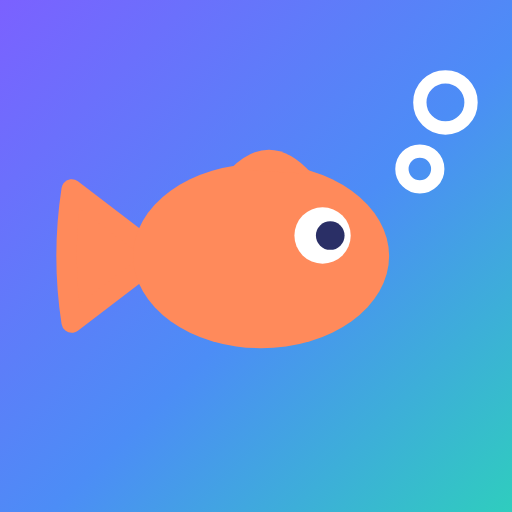
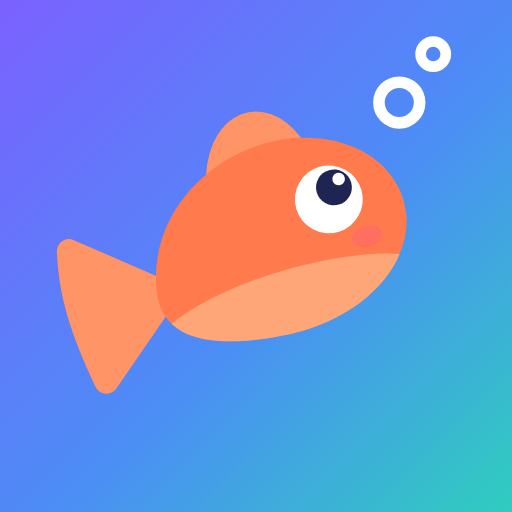
Add files via upload

Changed region(s): [[0.0938, 0.0625, 0.9375, 0.7812]]

diff --git a/index.html b/index.html
@@ -27,7 +27,7 @@
   --dock:rgba(255,255,255,.8); --dock-stroke:rgba(18,24,38,.06); --dock-ink:#121826; --side:#EEF2F8;
   --cam:var(--brand-grad); --cam-ink:#fff; --cam-glow:0 0 0 6px rgba(76,141,246,.14), 0 12px 30px rgba(91,97,255,.38);
   --btn-bg:var(--brand-grad); --btn-ink:#fff; --toast-bg:#121826; --toast-ink:#fff;
-  --calm:#2FCDBE; --calm-2:#7B61FF; --soon:#4C8DF6; --soon-2:#7B61FF; --now:#7B61FF; --now-2:#4C8DF6; --empty:#7B61FF; --empty-2:#2FCDBE;
+  --calm:#5B8DF6; --calm-2:#8C7BFF; --soon:#4C8DF6; --soon-2:#7B61FF; --now:#7B61FF; --now-2:#4C8DF6; --empty:#7B61FF; --empty-2:#5BA4F7;
   --now-ink:#5B43E0; --soon-ink:#2F6FE0; --thread:#4C8DF6;
   --aurora:.38; --ring-track:rgba(18,24,38,.06); --ring-w:7; --num-w:850; --num-fill:linear-gradient(165deg,#121826 32%,var(--mood2) 70%,var(--mood1)); --glow:none;
   --font: ui-rounded, "SF Pro Rounded", system-ui, -apple-system, "Segoe UI", Roboto, sans-serif;
@@ -75,7 +75,8 @@ button{cursor:pointer;border:0;background:none;padding:0}
 .ring .center{position:absolute;inset:0;display:flex;flex-direction:column;align-items:center;justify-content:center}
 .ring .num{font-size:clamp(70px,24vw,112px);line-height:.9;font-weight:var(--num-w);letter-spacing:-.06em;background:var(--num-fill);-webkit-background-clip:text;background-clip:text;color:transparent;font-variant-numeric:tabular-nums}
 .ring .unit{font-size:14.5px;font-weight:700;color:var(--ink-2);margin-top:10px}
-.ring .knot{width:46%;color:var(--mood1)}
+.ring .knot{width:64%;filter:drop-shadow(0 10px 18px rgba(242,87,58,.22));animation:swim 5s ease-in-out infinite}
+@keyframes swim{50%{transform:translate(4px,-5px) rotate(-3deg)}}
 .hero h1{font-size:clamp(25px,7vw,32px);line-height:1.08;font-weight:800;letter-spacing:-.025em;margin:0 0 10px;text-wrap:balance}
 .hero h1 .h2l{display:block;white-space:nowrap}
 .hero h1 .brandw{background:linear-gradient(120deg,#7B61FF,#4C8DF6 55%,#2FCDBE);-webkit-background-clip:text;background-clip:text;color:transparent}
@@ -162,6 +163,23 @@ button{cursor:pointer;border:0;background:none;padding:0}
 .legend span{display:inline-flex;align-items:center;gap:6px}
 .top-actions{display:flex;align-items:center}
 
+/* ---------- calendario: pagina affiancata a sinistra, stesso sfondo ---------- */
+:root{--hx:0px}
+.hero,.list-sec,.peek,.bar{translate:var(--hx) 0}
+.calp{position:fixed;inset:0;z-index:11;background:transparent;overflow-y:auto;overscroll-behavior:contain;translate:calc(var(--hx) - 100vw) 0;padding:calc(env(safe-area-inset-top) + 8px) 16px calc(170px + env(safe-area-inset-bottom));pointer-events:none}
+.calp.open{pointer-events:auto}
+body.slide .hero,body.slide .list-sec,body.slide .peek,body.slide .bar,body.slide .calp{transition:translate .5s cubic-bezier(.22,.9,.22,1)}
+html,body{overflow-x:clip}
+html{overflow-x:hidden}
+.calp-head{display:flex;align-items:center;justify-content:space-between;max-width:620px;margin:0 auto 10px;min-height:44px}
+.calp-head h2{margin:0;font-size:27px;font-weight:800;letter-spacing:-.025em}
+.calp-head .icon-btn{margin-right:-10px;color:var(--ink)}
+/* calendario leggero: vetro trasparente al posto del bianco pieno */
+.calp .cal{background:rgba(255,255,255,.38);-webkit-backdrop-filter:blur(18px) saturate(1.4);backdrop-filter:blur(18px) saturate(1.4);border:1px solid rgba(255,255,255,.6);box-shadow:0 8px 30px rgba(43,72,140,.07)}
+.calp .row,.calp .chip:not([aria-pressed="true"]){background:rgba(255,255,255,.45);border-color:rgba(255,255,255,.65);box-shadow:none}
+.calp .chip{box-shadow:none}
+.calp .day:active{background:rgba(255,255,255,.5)}
+.calp .add-day{border-color:rgba(76,141,246,.35);background:rgba(255,255,255,.18)}
 .dock{position:fixed;left:0;right:0;bottom:calc(14px + env(safe-area-inset-bottom));z-index:12;display:flex;align-items:flex-end;justify-content:center;gap:34px;pointer-events:none}
 .dock .rb{pointer-events:auto;display:flex;flex-direction:column;align-items:center;gap:7px;font-size:12.5px;font-weight:750;color:var(--ink-2)}
 .dock .c{display:grid;place-items:center;border-radius:50%;transition:transform .15s}
@@ -274,7 +292,8 @@ textarea.input{height:auto;min-height:100px;padding:14px 16px;line-height:1.4;re
 #toastActions{flex:1 0 100%;display:flex;gap:8px;justify-content:flex-end}
 #toastActions:empty{display:none}
 .toast button{color:inherit;font-weight:800;padding:9px 14px;border-radius:14px;font-size:15px;background:color-mix(in srgb, currentColor 10%, transparent)}
-.toast svg{flex:0 0 46px;height:27px;width:46px;color:#5FE0D3}
+.toast .tie{flex:0 0 34px;height:34px;border-radius:9px;overflow:hidden}
+.toast .tie svg{width:34px;height:34px;display:block}
 .tie use{stroke-dasharray:240;stroke-dashoffset:240}
 .toast.show .tie use{animation:tie .9s .1s cubic-bezier(.6,0,.2,1) forwards}
 @keyframes tie{to{stroke-dashoffset:0}}
@@ -322,12 +341,19 @@ textarea.input{height:auto;min-height:100px;padding:14px 16px;line-height:1.4;re
 </svg>
 
 <header class="bar">
-  <div class="brand"><svg viewBox="0 0 100 100" aria-hidden="true"><defs><linearGradient id="lg" x1="0" y1="0" x2="1" y2="1"><stop offset="0" stop-color="#7B61FF"/><stop offset=".55" stop-color="#4C8DF6"/><stop offset="1" stop-color="#2FCDBE"/></linearGradient></defs><rect width="100" height="100" rx="24" fill="url(#lg)"/><g transform="translate(50 50) translate(-49 -51)"><path d="M30 51 L13 38 Q11 51 13 64 Z" fill="#FF8A5B" stroke="#FF8A5B" stroke-width="4" stroke-linejoin="round"/>
-<ellipse cx="50" cy="51" rx="25" ry="18" fill="#FF8A5B"/>
-<path d="M44 34 Q52 26 60 35" fill="#FF8A5B"/>
-<circle cx="62" cy="47" r="5.5" fill="#fff"/><circle cx="63.5" cy="47" r="2.8" fill="#2A2F66"/>
-<circle cx="81" cy="34" r="3.5" fill="none" stroke="#fff" stroke-width="2.6"/>
-<circle cx="86" cy="21" r="5" fill="none" stroke="#fff" stroke-width="2.6"/></g></svg>MeMo</div>
+  <div class="brand"><svg xmlns="http://www.w3.org/2000/svg" aria-hidden="true" viewBox="0 0 100 100"><defs><linearGradient id="lbg" x1="0" y1="0" x2="1" y2="1"><stop offset="0" stop-color="#7B61FF"/><stop offset=".55" stop-color="#4C8DF6"/><stop offset="1" stop-color="#2FCDBE"/></linearGradient><clipPath id="lsq"><rect width="100" height="100" rx="22.5"/></clipPath></defs><g clip-path="url(#lsq)"><rect width="100" height="100" fill="url(#lbg)"/><g transform="translate(50 50) scale(0.9463960027206474) translate(-50.43 -56.67)"><defs><clipPath id="lbody"><path d="M28 58 C30 42 46 32 62 34 C76 36 84 46 82 56 C80 66 68 74 52 73 C38 72 27 68 28 58 Z"/></clipPath></defs>
+<g class="fishbody" transform="rotate(-16 54 54)">
+  <path d="M30 58 L13 44 C11 52 11 60 13 72 Z" fill="#FF9466" stroke="#FF9466" stroke-width="5" stroke-linejoin="round"/>
+  <path d="M46 37 C50 26 60 25 64 35 Z" fill="#FF9466" stroke="#FF9466" stroke-width="3" stroke-linejoin="round"/>
+  <path d="M28 58 C30 42 46 32 62 34 C76 36 84 46 82 56 C80 66 68 74 52 73 C38 72 27 68 28 58 Z" fill="#FF7A4D"/>
+  <g clip-path="url(#lbody)"><ellipse cx="55" cy="72" rx="34" ry="12" fill="#FFA678"/></g>
+  <circle cx="67.5" cy="48.5" r="7" fill="#fff"/>
+  <circle cx="69.2" cy="46.4" r="3.7" fill="#1F2552"/>
+  <circle cx="70.6" cy="45" r="1.3" fill="#fff"/>
+  <ellipse cx="73" cy="58" rx="3.2" ry="2.1" fill="#FF5E7E" opacity=".4"/>
+</g>
+<circle cx="80" cy="25" r="4.2" fill="none" stroke="#fff" stroke-width="2.4"/>
+<circle cx="87" cy="15" r="2.6" fill="none" stroke="#fff" stroke-width="2.2"/></g></g></svg>MeMo</div>
   <div class="mini" aria-hidden="true"><span class="dot"></span><span id="miniTxt"></span></div>
   <div class="top-actions"><button class="icon-btn" id="btnCal" aria-label="Calendario">
     <svg width="23" height="23" viewBox="0 0 24 24" fill="none" stroke="currentColor" stroke-width="2" stroke-linecap="round" stroke-linejoin="round" aria-hidden="true"><rect x="3.5" y="5" width="17" height="15.5" rx="3.5"/><path d="M3.5 10h17M8 3v4M16 3v4"/><circle cx="8.5" cy="14.5" r="1.1" fill="currentColor"/><circle cx="12" cy="14.5" r="1.1" fill="currentColor"/></svg>
@@ -346,7 +372,19 @@ textarea.input{height:auto;min-height:100px;padding:14px 16px;line-height:1.4;re
         <circle class="arc" id="ringArc" cx="100" cy="100" r="92" pathLength="100" stroke-dasharray="100" stroke-dashoffset="100" transform="rotate(-90 100 100)"/>
       </svg>
       <div class="center"><div class="num" id="heroNum"></div><div class="unit" id="heroUnit"></div>
-        <svg class="knot" id="heroKnot" viewBox="0 0 68 40" aria-hidden="true" hidden><use href="#knotPath" fill="none" stroke="currentColor" stroke-width="4" stroke-linecap="round" stroke-linejoin="round"/></svg></div>
+        <svg class="knot fish" id="heroKnot" hidden viewBox="0 0 100 100" aria-hidden="true"><g transform="translate(50 50) scale(0.9937158028566798) translate(-50.43 -56.67)"><defs><clipPath id="hbody"><path d="M28 58 C30 42 46 32 62 34 C76 36 84 46 82 56 C80 66 68 74 52 73 C38 72 27 68 28 58 Z"/></clipPath></defs>
+<g class="fishbody" transform="rotate(-16 54 54)">
+  <path d="M30 58 L13 44 C11 52 11 60 13 72 Z" fill="#FF9466" stroke="#FF9466" stroke-width="5" stroke-linejoin="round"/>
+  <path d="M46 37 C50 26 60 25 64 35 Z" fill="#FF9466" stroke="#FF9466" stroke-width="3" stroke-linejoin="round"/>
+  <path d="M28 58 C30 42 46 32 62 34 C76 36 84 46 82 56 C80 66 68 74 52 73 C38 72 27 68 28 58 Z" fill="#FF7A4D"/>
+  <g clip-path="url(#hbody)"><ellipse cx="55" cy="72" rx="34" ry="12" fill="#FFA678"/></g>
+  <circle cx="67.5" cy="48.5" r="7" fill="#fff"/>
+  <circle cx="69.2" cy="46.4" r="3.7" fill="#1F2552"/>
+  <circle cx="70.6" cy="45" r="1.3" fill="#fff"/>
+  <ellipse cx="73" cy="58" rx="3.2" ry="2.1" fill="#FF5E7E" opacity=".4"/>
+</g>
+<circle cx="80" cy="25" r="4.2" fill="none" stroke="#8DA6F5" stroke-width="2.4"/>
+<circle cx="87" cy="15" r="2.6" fill="none" stroke="#8DA6F5" stroke-width="2.2"/></g></svg></div>
     </div>
     <h1 id="heroTitle"></h1>
     <p id="heroSub"></p>
@@ -366,6 +404,10 @@ textarea.input{height:auto;min-height:100px;padding:14px 16px;line-height:1.4;re
   </div>
 </section>
 
+<section class="calp" id="calPanel" aria-hidden="true" aria-label="Calendario">
+  <div class="calp-head"><h2>Calendario</h2><button class="icon-btn" id="calBack" aria-label="Torna alla home"><svg width="22" height="22" viewBox="0 0 24 24" fill="none" stroke="currentColor" stroke-width="2.4" stroke-linecap="round" stroke-linejoin="round" aria-hidden="true"><path d="M9 5l7 7-7 7"/></svg></button></div>
+  <div class="wrap" id="viewCal"></div>
+</section>
 <nav class="dock" aria-label="Aggiungi un MeMo">
   <button class="rb photo" id="btnPhoto"><span class="c"><svg width="26" height="26" viewBox="0 0 24 24" fill="none" stroke="currentColor" stroke-width="2.1" stroke-linejoin="round" aria-hidden="true"><path d="M4 8h3l2-3h6l2 3h3v11H4z"/><circle cx="12" cy="13" r="3.6"/></svg></span>Foto</button>
   <button class="rb voice" id="btnVoice"><span class="c"><svg width="36" height="36" viewBox="0 0 24 24" fill="none" stroke="currentColor" stroke-width="2.2" stroke-linecap="round" aria-hidden="true"><rect x="9" y="3" width="6" height="11" rx="3"/><path d="M5.5 11.5a6.5 6.5 0 0 0 13 0M12 18v3"/></svg></span>Dimmi</button>
@@ -383,7 +425,19 @@ textarea.input{height:auto;min-height:100px;padding:14px 16px;line-height:1.4;re
 
 <button class="nb" id="nb" aria-live="assertive"><span class="ni" id="nbIcon"></span><span class="nt"><span class="nh"><b>MeMo</b><span>ora</span></span><span class="nti" id="nbT"></span><span class="nbo" id="nbB"></span></span></button>
 <div class="toast" id="toast" role="status" aria-live="polite">
-  <svg class="tie" viewBox="0 0 68 40" aria-hidden="true"><use href="#knotPath" fill="none" stroke="currentColor" stroke-width="4.5" stroke-linecap="round" stroke-linejoin="round"/></svg>
+  <span class="tie"><svg xmlns="http://www.w3.org/2000/svg" aria-hidden="true" viewBox="0 0 100 100"><defs><linearGradient id="lbg" x1="0" y1="0" x2="1" y2="1"><stop offset="0" stop-color="#7B61FF"/><stop offset=".55" stop-color="#4C8DF6"/><stop offset="1" stop-color="#2FCDBE"/></linearGradient><clipPath id="lsq"><rect width="100" height="100" rx="22.5"/></clipPath></defs><g clip-path="url(#lsq)"><rect width="100" height="100" fill="url(#lbg)"/><g transform="translate(50 50) scale(0.9463960027206474) translate(-50.43 -56.67)"><defs><clipPath id="lbody"><path d="M28 58 C30 42 46 32 62 34 C76 36 84 46 82 56 C80 66 68 74 52 73 C38 72 27 68 28 58 Z"/></clipPath></defs>
+<g class="fishbody" transform="rotate(-16 54 54)">
+  <path d="M30 58 L13 44 C11 52 11 60 13 72 Z" fill="#FF9466" stroke="#FF9466" stroke-width="5" stroke-linejoin="round"/>
+  <path d="M46 37 C50 26 60 25 64 35 Z" fill="#FF9466" stroke="#FF9466" stroke-width="3" stroke-linejoin="round"/>
+  <path d="M28 58 C30 42 46 32 62 34 C76 36 84 46 82 56 C80 66 68 74 52 73 C38 72 27 68 28 58 Z" fill="#FF7A4D"/>
+  <g clip-path="url(#lbody)"><ellipse cx="55" cy="72" rx="34" ry="12" fill="#FFA678"/></g>
+  <circle cx="67.5" cy="48.5" r="7" fill="#fff"/>
+  <circle cx="69.2" cy="46.4" r="3.7" fill="#1F2552"/>
+  <circle cx="70.6" cy="45" r="1.3" fill="#fff"/>
+  <ellipse cx="73" cy="58" rx="3.2" ry="2.1" fill="#FF5E7E" opacity=".4"/>
+</g>
+<circle cx="80" cy="25" r="4.2" fill="none" stroke="#fff" stroke-width="2.4"/>
+<circle cx="87" cy="15" r="2.6" fill="none" stroke="#fff" stroke-width="2.2"/></g></g></svg></span>
   <div class="msg" id="toastMsg"></div>
   <div id="toastActions"></div>
 </div>
@@ -394,7 +448,7 @@ textarea.input{height:auto;min-height:100px;padding:14px 16px;line-height:1.4;re
 'use strict';
 const P = window.MeMoParser;
 const $ = s => document.querySelector(s);
-const VERSION = '1.9';
+const VERSION = '1.15';
 const isIOS = /iPhone|iPad|iPod/.test(navigator.userAgent);
 const isStandalone = () => window.navigator.standalone === true || matchMedia('(display-mode: standalone)').matches;
 
@@ -485,7 +539,7 @@ function countParts(it, st) {
 }
 function rowSub(it, st) {
   if (st.key === 'now') {
-    if (it.time) return st.minutesLeft >= 0 ? `${cap(whenText(it))}, ${inWords(st.minutesLeft)}` : `Era ${whenText(it)}`;
+    if (it.time) return st.minutesLeft >= 0 ? cap(whenText(it)) : `Era ${whenText(it)}`;
     const exp = ['passaporto', 'cie', 'patente', 'tessera', 'revisione', 'bollo', 'assicurazione', 'abbonamento', 'bolletta', 'garanzia'].includes(it.type);
     if (st.left < 0) return exp ? `Scaduto il ${fmtDay(it.due)}` : `Era il ${fmtDay(it.due)}`;
     if (st.left <= 1) return exp ? `Scade ${dayWord(it.due)}` : cap(dayWord(it.due));
@@ -503,6 +557,8 @@ function countUp(el, to) {
   requestAnimationFrame(step);
 }
 let rowObserver = null;
+const CALM_LINES = ['Tutto sotto controllo.', 'Ho tutto sotto pinna.', 'Me lo sono segnato io.', 'Tranquillo, ce l\'ho io.', 'Lascia fare a me.', 'Tu vivi, io ricordo.', 'Nessun pensiero: ci sono io.'];
+const CALM_LINE = CALM_LINES[Math.floor(Math.random() * CALM_LINES.length)];
 function render() {
   const nowD = new Date();
   const active = items.map(i => ({ i, s: P.statusOf(i, nowD) })).sort((a, b) => P.dueAt(a.i) - P.dueAt(b.i));
@@ -525,26 +581,29 @@ function render() {
     showNum(true); fill = 100; countUp(num, n);
     unit.textContent = allToday ? 'MeMo per oggi' : (n === 1 ? 'MeMo da ricordare' : 'MeMo da ricordare');
     h.textContent = n === 1 ? first.i.title : `${first.i.title} e ${n === 2 ? "un'altra cosa" : (n - 1) + ' altre cose'}`;
-    p.textContent = n === 1 ? `${rowSub(first.i, first.s)}. Al resto penso io.` : 'Li trovi qui sotto. Al resto penso io.';
+    p.textContent = n === 1 ? `${rowSub(first.i, first.s)}. Ci penso io.` : 'Li trovi qui sotto. Ci penso io.';
     mini.textContent = `${n} MeMo ${allToday ? 'per oggi' : 'da ricordare'}`;
   } else {
-    const next = active.slice().sort((a, b) => a.s.remind - b.s.remind)[0];
-    const mins = Math.max(0, Math.round((next.s.remind - nowD) / 60000));
-    showNum(true);
-    if (mins < 24 * 60) {
-      const hrs = Math.floor(mins / 60);
-      if (hrs >= 1) { countUp(num, hrs); unit.textContent = hrs === 1 ? 'ora tranquilla' : 'ore tranquille'; }
-      else { countUp(num, mins); unit.textContent = 'minuti tranquilli'; }
-      fill = Math.max(6, mins / (24 * 60) * 100);
-      mini.textContent = `Tranquillo fino alle ${hm(next.s.remind)}`;
+    // quanti MeMo ci sono nel prossimo giorno che ne ha: oggi, domani, oppure tra qualche giorno
+    const today = P.todayISO(), next = active[0], day = next.i.due;
+    const sameDay = active.filter(x => x.i.due === day), n = sameDay.length;
+    const days = P.diffDays(today, day);
+    fill = 100;
+    if (days > 183) {
+      showNum(false);
+      h.textContent = 'Troppo in là anche solo per ricordartelo.';
+      p.textContent = `Il prossimo MeMo è a ${fmtMonth(day)}. Ci penso io.`;
+      mini.textContent = 'Niente in vista';
     } else {
-      const d = P.diffDays(P.todayISO(), P.toISO(next.s.remind));
-      countUp(num, d); unit.textContent = d === 1 ? 'giorno tranquillo' : 'giorni tranquilli';
-      fill = Math.max(8, Math.min(100, d / 90 * 100));
-      mini.textContent = d === 1 ? 'Tranquillo fino a domani' : `Tranquillo per ${d} giorni`;
+      showNum(true); countUp(num, n);
+      const when = days <= 0 ? 'per oggi' : days === 1 ? 'per domani' : days < 45 ? `tra ${days} giorni` : `tra ${Math.round(days / 30.44)} mesi`;
+      unit.textContent = `MeMo ${when}`;
+      h.textContent = CALM_LINE;
+      const t = sameDay.map(x => `«${x.i.title}»`);
+      const names = n <= 3 ? (n === 1 ? t[0] : t.slice(0, -1).join(', ') + ' e ' + t[n - 1]) : `${t[0]}, ${t[1]} e altri ${n - 2}`;
+      p.textContent = `${names}. ${n === 1 ? 'Te lo ricordo' : 'Te li ricordo'} io, al momento giusto.`;
+      mini.textContent = `${n} MeMo ${when}`;
     }
-    h.textContent = 'Puoi dimenticarti tutto.';
-    p.textContent = `Il prossimo avviso è per «${next.i.title}», ${remindText(next.s.remind, !!next.i.time)}.`;
   }
   requestAnimationFrame(() => arc.style.strokeDashoffset = String(100 - fill));
 
@@ -575,7 +634,7 @@ function render() {
   } else list.querySelectorAll('.row-wrap').forEach(el => el.classList.add('in'));
   $('#swipeTip').hidden = !active.length || store.get('swiped') === '1';
   try { if ('setAppBadge' in navigator) groups.now.length ? navigator.setAppBadge(groups.now.length) : navigator.clearAppBadge(); } catch (e) {}
-  if ($('#viewCal')) renderCal();
+  if (calOpen) renderCal();
   onScroll();
 }
 
@@ -624,10 +683,56 @@ $('#peek').addEventListener('click', () => window.memoGlideToList());
 let calMonth = (() => { const d = new Date(); return new Date(d.getFullYear(), d.getMonth(), 1); })();
 let calSel = P.todayISO();
 const monthKey = (y, m) => `${y}-${pad(m + 1)}`;
+let calOpen = false;
 function openCalendar() {
   const n = new Date(); calMonth = new Date(n.getFullYear(), n.getMonth(), 1); calSel = P.todayISO();
-  openSheet('<h2>Calendario</h2><div id="viewCal"></div>', () => renderCal());
+  renderCal(); setCal(true);
 }
+// la home e il calendario sono due pagine affiancate: --hx sposta entrambe insieme
+const setHX = px => document.documentElement.style.setProperty('--hx', px + 'px');
+let slideT;
+function setCal(open) {
+  calOpen = open; const el = $('#calPanel');
+  document.body.classList.add('slide'); clearTimeout(slideT); slideT = setTimeout(() => document.body.classList.remove('slide'), 520);
+  setHX(open ? window.innerWidth : 0);
+  el.classList.toggle('open', open); el.setAttribute('aria-hidden', String(!open));
+  document.body.classList.toggle('cal-on', open);
+  if (open) { el.scrollTop = 0; haptic(); }
+}
+window.addEventListener('resize', () => { if (calOpen) setHX(window.innerWidth); });
+// swipe verso destra dalla home: la home scivola a destra e il calendario entra da sinistra; swipe verso sinistra per tornare
+(() => {
+  let x0 = null, y0 = 0, mode = null, dx = 0, from = null, lastX = 0, lastT = 0, vx = 0;
+  const W = () => window.innerWidth;
+  const start = (e, origin) => { const t = e.touches[0]; x0 = lastX = t.clientX; y0 = t.clientY; lastT = performance.now(); mode = null; dx = 0; vx = 0; from = origin; };
+  const move = e => {
+    if (x0 == null) return; const t = e.touches[0]; const mx = t.clientX - x0, my = t.clientY - y0;
+    if (!mode && (Math.abs(mx) > 8 || Math.abs(my) > 8)) {
+      mode = Math.abs(mx) > Math.abs(my) * 1.2 && ((from === 'home' && mx > 0) || (from === 'cal' && mx < 0)) ? 'x' : 'y';
+      if (mode === 'x' && from === 'home') { const n = new Date(); calMonth = new Date(n.getFullYear(), n.getMonth(), 1); calSel = P.todayISO(); renderCal(); $('#calPanel').scrollTop = 0; }
+    }
+    if (mode !== 'x') return;
+    const now = performance.now(); vx = (t.clientX - lastX) / Math.max(1, now - lastT); lastX = t.clientX; lastT = now;
+    dx = mx; document.body.classList.remove('slide');
+    setHX(Math.max(0, Math.min(W(), from === 'home' ? dx : W() + dx)));
+  };
+  const end = () => {
+    if (x0 == null) return; x0 = null;
+    if (mode !== 'x') return;
+    // decide in base a quanto e quanto in fretta hai spostato il dito
+    if (from === 'home') setCal(dx > W() * 0.3 || vx > 0.45); else setCal(!(dx < -W() * 0.3 || vx < -0.45));
+  };
+  document.addEventListener('touchstart', e => {
+    if (calOpen || !$('#sheetWrap').hidden || document.querySelector('.intro')) return;
+    if (e.target.closest('.dock, .chips.scroll, .nb, #calPanel')) return;
+    start(e, 'home');
+  }, { passive: true });
+  $('#calPanel').addEventListener('touchstart', e => { if (!calOpen || e.target.closest('#cBox, .chips.scroll')) return; start(e, 'cal'); }, { passive: true });
+  document.addEventListener('touchmove', move, { passive: true });
+  document.addEventListener('touchend', end, { passive: true });
+  document.addEventListener('touchcancel', end, { passive: true });
+  $('#calBack').addEventListener('click', () => setCal(false));
+})();
 // le scadenze che si ripetono (bollo, compleanno...) compaiono in tutti gli anni
 function occurrencesIn(it, y, m) {
   const rec = T(it.type).recur, start = `${monthKey(y, m)}-01`, end = `${monthKey(y, m)}-${pad(P.lastDay(y, m + 1))}`, out = [];
@@ -924,7 +1029,10 @@ function openVoice() {
     try {
       rec = new SR(); rec.lang = 'it-IT'; rec.interimResults = true; rec.continuous = false;
       let gotAny = false;
-      rec.onresult = e => { gotAny = true; let t = ''; for (const r of e.results) t += r[0].transcript; ta.value = t.trim(); upd(); };
+      let quiet = null;
+      // quando smetti di parlare per un attimo, MeMo chiude il microfono e crea il MeMo
+      rec.onresult = e => { gotAny = true; let t = ''; for (const r of e.results) t += r[0].transcript; ta.value = t.trim(); upd();
+        clearTimeout(quiet); quiet = setTimeout(() => { if (!rec) return; stopRec(); mic.classList.remove('on'); if (ta.value.trim()) { hint.textContent = 'Ho capito.'; setTimeout(() => { if ($('#vText') === ta) submitSpeech(ta.value); }, 350); } }, 1600); };
       rec.onerror = () => { rec = null; fallback(); };
       rec.onend = () => { mic.classList.remove('on'); const r = rec; rec = null;
         if (r && gotAny && ta.value.trim()) { hint.textContent = 'Ho capito.'; setTimeout(() => { if ($('#vText') === ta) submitSpeech(ta.value); }, 500); }
@@ -933,8 +1041,9 @@ function openVoice() {
     } catch (e) { fallback(); }
   });
 }
-function stopRec() { if (rec) { const r = rec; rec = null; try { r.abort(); } catch (e) {} } }
+function stopRec() { if (rec) { const r = rec; rec = null; r.onresult = r.onend = r.onerror = null; try { r.stop(); } catch (e) {} try { r.abort(); } catch (e) {} } const m = $('#vMic'); if (m) m.classList.remove('on'); }
 async function submitSpeech(text) {
+  stopRec();
   const res = P.parseSpeech(text);
   if (!res.date) { openEditor({ type: res.type, title: res.title, date: null }, { head: 'Manca solo la data', sub: `Ho capito «${res.title}». Quando?`, markMissing: true }); return; }
   const it = { id: uid(), createdAt: new Date().toISOString(), type: res.type, title: res.title, due: res.date, time: res.time || null, purchase: res.purchase || null, said: text.trim() };

diff --git a/parser.js b/parser.js
@@ -77,7 +77,7 @@
       ask: 'Quando si rinnova?',
       todo: "Se non lo usi più, disdicilo prima del rinnovo. Se lo usi, non devi fare niente.",
       link: null,
-      kw: [[/abboname/, 5], [/rinnovo\s*automatic/, 5], [/netflix|spotify|disney|dazn|icloud|amazon\s*prime|youtube\s*premium|palestra/, 5], [/\bdisdett|\bdisdir/, 3]] },
+      kw: [[/abboname/, 5], [/rinnovo\s*automatic/, 5], [/netflix|spotify|disney|dazn|icloud|amazon\s*prime|youtube\s*premium/, 5], [/\bdisdett|\bdisdir/, 3]] },
     { id: 'bolletta', label: 'Pagamento', emoji: '💡', lead: 3, recur: null, dateKind: 'expiry', done: 'archive',
       ask: 'Entro quando va pagato?',
       todo: "Pagalo o controlla che l'addebito automatico sia attivo.",

diff --git a/sw.js b/sw.js
@@ -1,5 +1,5 @@
 /* MeMo — funziona anche offline. Cambia VERSION quando aggiorni i file su GitHub. */
-const VERSION = 'memo-v1.9';
+const VERSION = 'memo-v1.15';
 const SHELL = ['./', 'index.html', 'parser.js', 'notify.js', 'manifest.json', 'icon-192.png', 'icon-512.png', 'apple-touch-icon.png'];
 
 self.addEventListener('install', e => {
